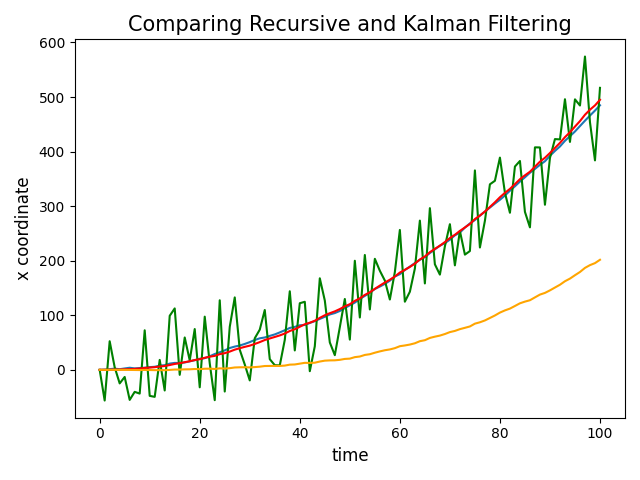
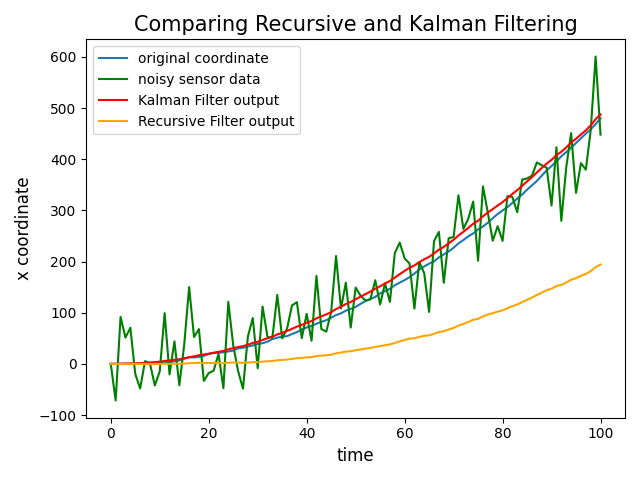
modified

diff --git a/hw2/main.py b/hw2/main.py
@@ -92,7 +92,10 @@ if __name__ == '__main__':
     plt.plot(time, z, 'g', label='noisy sensor data')
     plt.plot(time, xOpt, 'r', label='Kalman Filter output')
     plt.plot(time, xRec, 'orange', label='Recursive Filter output')
-    saveplot('compare_recursive_and_kalman.png')
     plt.legend()
+    saveplot('compare_recursive_and_kalman.png')
     plt.show()
-    # вывод: сенсорным данным слабо доверяем, так как коэффициент K(Kalman Gain) из-за зашумленности близок к 0
+
+    # вывод рекрусионной фильрации :
+    # сенсорным данным слабо доверяем, так как
+    # коэффициент K(Kalman Gain) из-за зашумленности близок к 0
